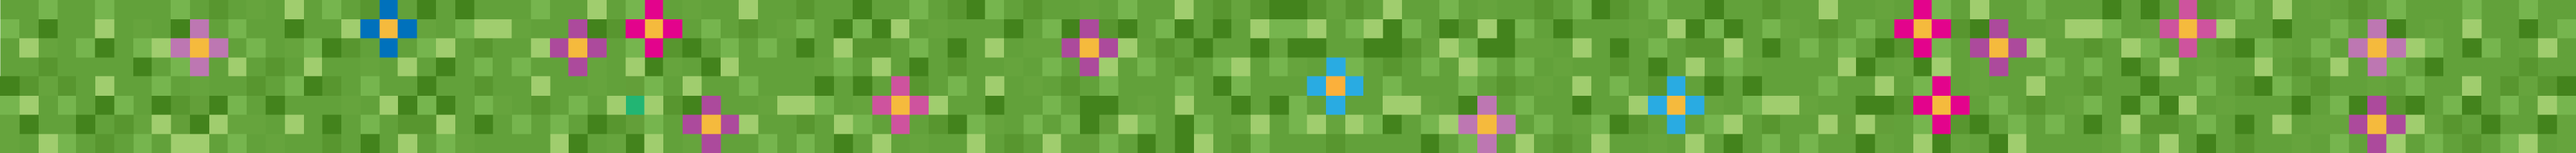
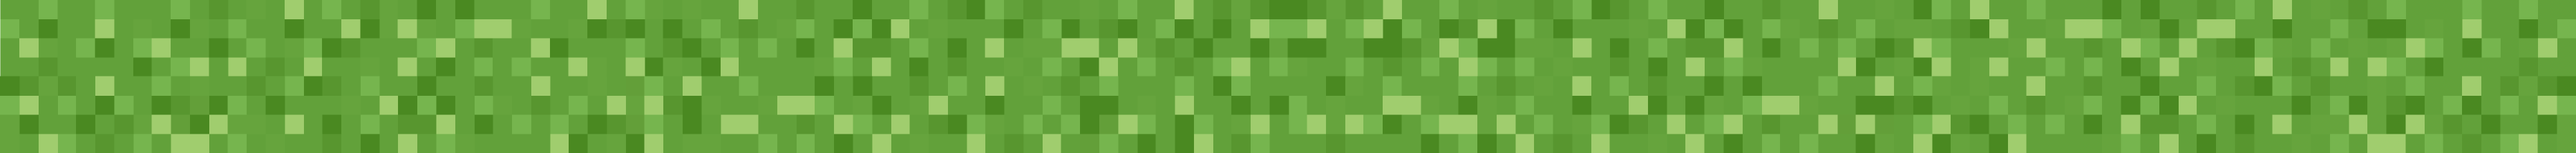
fixed backgrounds, moved some rows around

diff --git a/index.html b/index.html
@@ -18,39 +18,41 @@
         </div>
         <span id="game-board">
             <div class="frogger-0 d-flex flex-row end_row" id="frogger-0"></div>
-            <div class="frogger-1 d-flex flex-row end_row" id="frogger-1"></div>
-            <div class="frogger-2 d-flex flex-row end_row" id="frogger-2"></div>
 
+            <div class="frogger-1 d-flex flex-row road_row" id="frogger-1"></div>
+            <div class="frogger-2 d-flex flex-row road_row" id="frogger-2"></div>
             <div class="frogger-3 d-flex flex-row road_row" id="frogger-3"></div>
             <div class="frogger-4 d-flex flex-row road_row" id="frogger-4"></div>
-            <div class="frogger-5 d-flex flex-row road_row" id="frogger-5"></div>
-            <div class="frogger-6 d-flex flex-row road_row" id="frogger-6"></div>
+
+            <div class="frogger-5 d-flex flex-row sidewalk_row" id="frogger-5"></div>
+
+            <div class="frogger-6 d-flex flex-row grass_row" id="frogger-6"></div>
 
             <div class="frogger-7 d-flex flex-row water_row" id="frogger-7"></div>
             <div class="frogger-8 d-flex flex-row water_row" id="frogger-8"></div>
-
-            <div class="frogger-9 d-flex flex-row boardwalk_row" id="frogger-9"></div>
-            <div class="frogger-10 d-flex flex-row boardwalk_row" id="frogger-10"></div>
-            <div class="frogger-11 d-flex flex-row boardwalk_row" id="frogger-11"></div>
+            <div class="frogger-9 d-flex flex-row water_row" id="frogger-9"></div>
+            <div class="frogger-10 d-flex flex-row water_row" id="frogger-10"></div>
+            <div class="frogger-11 d-flex flex-row water_row" id="frogger-11"></div>
             
-            <div class="frogger-12 d-flex flex-row grass_row" id="frogger-12"></div>
+            <div class="frogger-12 d-flex flex-row boardwalk_row" id="frogger-12"></div>
+            
             <div class="frogger-13 d-flex flex-row grass_row" id="frogger-13"></div>
-            
-            <div class="frogger-14 d-flex flex-row water_row" id="frogger-14"></div>
-            <div class="frogger-15 d-flex flex-row water_row" id="frogger-15"></div>
-            <div class="frogger-16 d-flex flex-row water_row" id="frogger-16"></div>
 
+            <div class="frogger-14 d-flex flex-row sidewalk_row" id="frogger-14"></div>
+            
+            <div class="frogger-15 d-flex flex-row road_row" id="frogger-15"></div>
+            <div class="frogger-16 d-flex flex-row road_row" id="frogger-16"></div>
             <div class="frogger-17 d-flex flex-row road_row" id="frogger-17"></div>
             <div class="frogger-18 d-flex flex-row road_row" id="frogger-18"></div>
-            <div class="frogger-19 d-flex flex-row road_row" id="frogger-19"></div>
+            
+            <div class="frogger-19 d-flex flex-row grass_row" id="frogger-19"></div>
 
-            <div class="frogger-20 d-flex flex-row water_row" id="frogger-20"></div>
+            <div class="frogger-20 d-flex flex-row road_row" id="frogger-20"></div>
+            <div class="frogger-21 d-flex flex-row road_row" id="frogger-21"></div>
+            <div class="frogger-22 d-flex flex-row road_row" id="frogger-22"></div>
+            <div class="frogger-23 d-flex flex-row road_row" id="frogger-23"></div>
 
-            <div class="frogger-21 d-flex flex-row grass_row" id="frogger-21"></div>
-
-            <div class="frogger-22 d-flex flex-row start_row" id="frogger-22"></div>
-            <div class="frogger-23 d-flex flex-row start_row" id="frogger-23"></div>
-            <div class="frogger-24 d-flex flex-row start_row" id="frogger-24"></div>
+            <div class="frogger-24 d-flex flex-row sidewalk_row" id="frogger-24"></div>
         </span>
     </body>
 </html>

diff --git a/mainpage.module.css b/mainpage.module.css
@@ -21,6 +21,7 @@ body {
 
 .boardwalk_row {
     background-image: url(images/boardwalk.png);
+    background-size: contain;
 }
 
 .lilypad_row {
@@ -31,8 +32,9 @@ body {
     background-image: url(images/water.png);
 }
 
-.start_row {
+.sidewalk_row {
     background-image: url(images/sidewalk.png);
+    background-size: contain;
 }
 
 .road_row {
@@ -41,6 +43,7 @@ body {
 
 .end_row {
     background-image: url(images/end.png);
+    background-size: contain;
 }
 
 .grass_row {

diff --git a/index.js b/index.js
@@ -44,8 +44,8 @@ const CONSTANTS = {
      * The indexes of the rows, specifically where objects will be spawned to then animate to the other side of the screen
      */
     ROW_VALUES: {
-        ROADS: [3, 4, 5, 6, 17, 18, 19],
-        WATER: [7, 8, 14, 15, 16, 20],
+        ROADS: [1, 2, 3, 4, 15, 16, 17, 18, 20, 21, 22, 23],
+        WATER: [7, 8, 9, 10, 11],
     },
     /**
      * The ids of the rows
